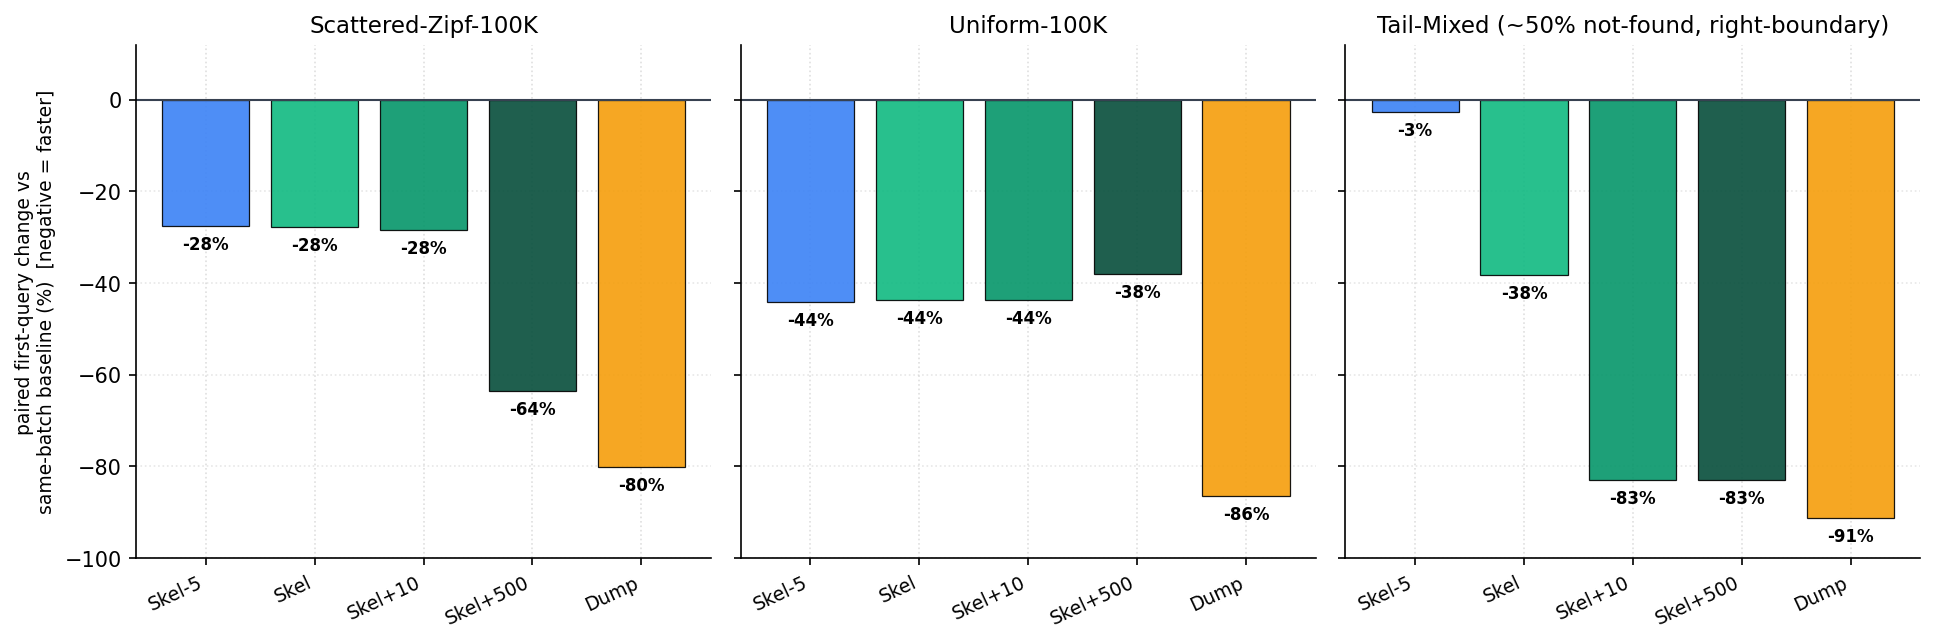
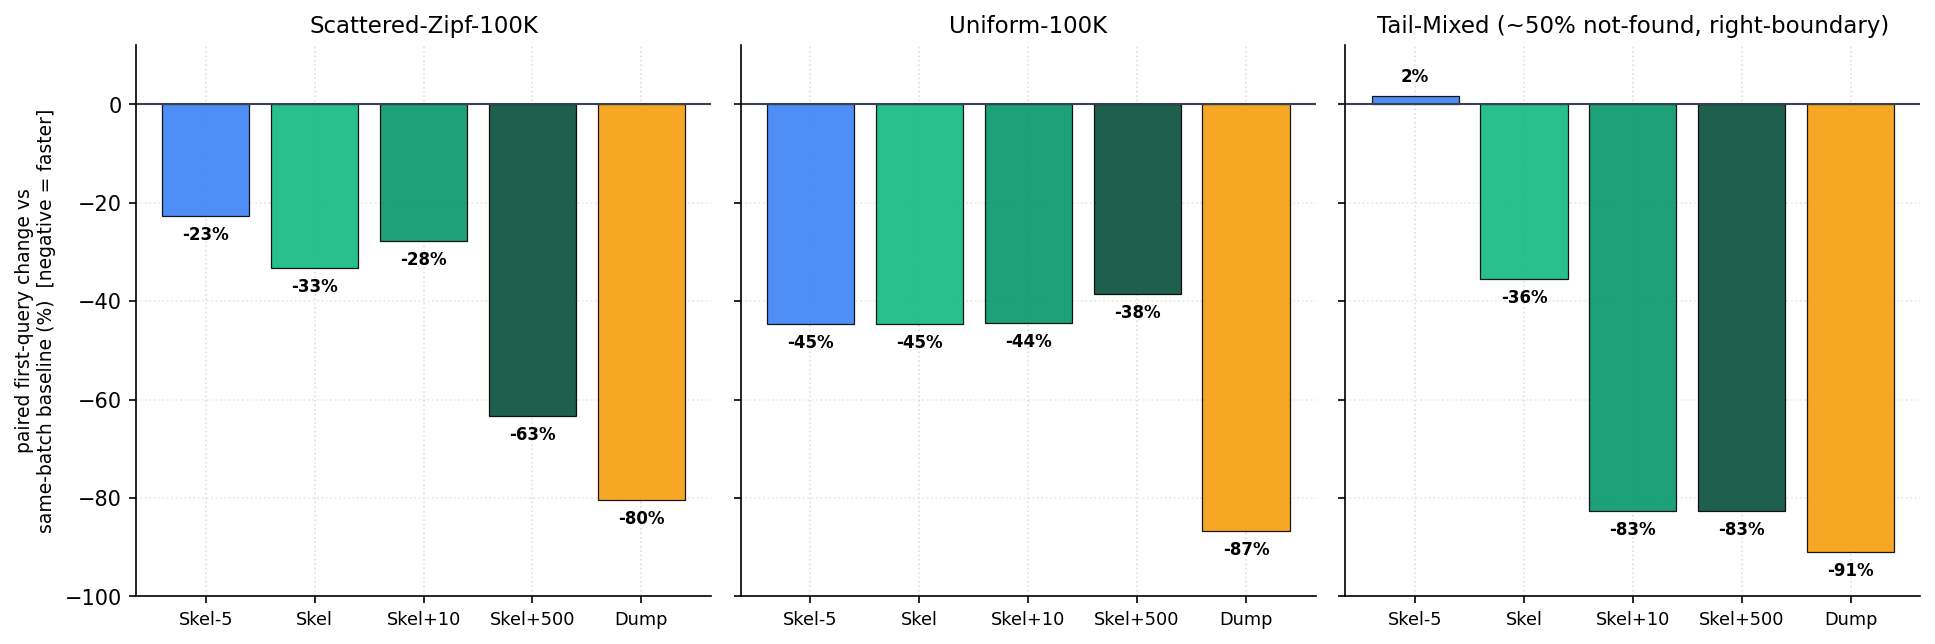
Updated fig 13, 14

diff --git a/figures/14_strategy_endtoend_stacked.py b/figures/14_strategy_endtoend_stacked.py
@@ -1,16 +1,24 @@
 """Figure 14: Warm-process end-to-end cold-start decomposition.
 
-Single canonical batch: results/unified_v4, seed01 (2026-09-17). Stacked
-absolute microseconds require one machine state, which previously forced this
-chart to drop the frequency-ranked 2e_K* arms (their corrected values lived in
-the separate results/tiebreak_fix batch). unified_v4 measured every arm --
-including 2e_K10/2e_K500 under the corrected (-count, pageno) tie-break -- in
-ONE run, and it is the batch the paper's four result tables also report, so the
-absolute stack here matches Table 5's absolute columns.
+Single canonical batch: results/unified_v6, seed01 (2026-09-23). Stacked
+absolute microseconds require one machine state, and unified_v6 measured every
+arm in ONE continuous window, so the absolute stack here matches the paper's
+result tables.
 
-Stack per strategy (layout orig, arm async, medians):
-  first_query (bottom) + deliver (top) = warm-process / integrated e2e.
-Green/red label = warm-process e2e vs the same-batch baseline.
+Each strategy is drawn TWICE, once per delivery mechanism (layout orig, medians):
+  first_query (bottom, grey) + deliver (top, orange) = warm-process e2e.
+  light = async     : one posix_fadvise per page
+  dark  = async_win : one posix_fadvise per 32-page readahead window
+Hue encodes the COMPONENT and lightness encodes the MECHANISM, because the point
+of the pair is that the grey block does not move while the orange block does.
+The saving scales with how much a strategy had to deliver, which is why Dump's
+tower collapses and the targeted arms barely change. Green/red label = e2e_warm
+vs the same-batch baseline, which is the leftmost bar of each panel.
+
+Caveat carried from the batch: seed01's Scattered-Zipf baseline is a genuine
+instantiation outlier (492 us against 828-1024 on the other nine seeds), so the
+Dump percentage here reads worse than the cross-seed figure. The absolute stack
+is unaffected, and the labels match Table 5, which quotes the same seed.
 
 Estimators: the bar HEIGHT is median(first_query) + median(deliver), because the
 bar is a stack of those two plotted medians. The percentage LABEL is computed
@@ -24,7 +32,7 @@ from plot_utils import ROOT, save, workload_panel_title
 import matplotlib.pyplot as plt
 import numpy as np
 
-UNIFIED = ROOT / "results/unified_v4/seed01/summary.csv"
+UNIFIED = ROOT / "results/unified_v6/seed01/summary.csv"
 
 # Aligned with Figure 13's strategy set (plus the baseline reference bar).
 ARMS      = ['baseline', 'layers_5', '2d', '2e_K10', '2e_K500', '2f_slru']
@@ -33,8 +41,17 @@ ARM_LABEL = {'baseline': 'baseline', 'layers_5': 'Skel-5', '2d': 'Skel',
 # CSV keys stay legacy (A/B/C); titles resolve to canonical display names.
 WORKLOADS = ['A', 'B', 'C']
 WL_TITLE  = {w: workload_panel_title(w) for w in ('A', 'B', 'C')}
-FQ_COLOR      = '#d1d5db'   # first query (bottom)
+FQ_COLOR      = '#d1d5db'   # first query (bottom), baseline bar
 DELIVER_COLOR = '#f97316'   # deliver (top)
+# Two delivery mechanisms side by side. Hue encodes the COMPONENT (grey = first
+# query, orange = deliver) and lightness encodes the MECHANISM (light = per-page,
+# dark = window-chunked). No hatching: the point of the pair is that the grey
+# block does not move and the orange block does, and a fill pattern competes with
+# that reading instead of supporting it.
+DELIV_ARMS = ['async', 'async_win']
+ARM_FQ     = {'async': '#d1d5db', 'async_win': '#9ca3af'}
+ARM_DELIV  = {'async': '#fdba74', 'async_win': '#ea580c'}
+ARM_TITLE  = {'async': 'per-page hint', 'async_win': 'window-chunked hint'}
 
 
 def load(path):
@@ -51,8 +68,8 @@ def load(path):
 ROWS = load(UNIFIED)
 
 
-def get(workload, strategy):
-    arm = 'baseline' if strategy == 'baseline' else 'async'
+def get(workload, strategy, arm='async'):
+    arm = 'baseline' if strategy == 'baseline' else arm
     key = (workload, 'orig', strategy, arm)
     if key not in ROWS:
         sys.exit(f"FATAL: missing row {key} in {UNIFIED}")
@@ -62,43 +79,66 @@ def get(workload, strategy):
             float(r.get('e2e_warm_median') or 0))
 
 
-fig, axes = plt.subplots(1, 3, figsize=(12, 5.2), sharey=False)
+fig, axes = plt.subplots(1, 3, figsize=(15.5, 5.2), sharey=False)
 x = np.arange(len(ARMS))
+W = 0.38                      # paired-bar width
 
-print("Figure 14 — plotted cells (unified_v4 absolute stack):")
+print("Figure 14 - plotted cells (unified_v6 seed01, async vs async_win):")
 for ax, wl in zip(axes, WORKLOADS):
-    fqs, dels, canon = [], [], []
+    baseline = get(wl, 'baseline')[0]
+    tops = []
     for s in ARMS:
-        fq, dl, ew = get(wl, s)
-        fqs.append(fq); dels.append(dl); canon.append(ew)
-    warm     = [f + d for f, d in zip(fqs, dels)]   # drawn stack height
-    baseline = fqs[0]
-
-    ax.bar(x, fqs, color=FQ_COLOR, alpha=0.9, edgecolor='black', linewidth=0.5,
-           label='First query')
-    ax.bar(x, dels, bottom=fqs, color=DELIVER_COLOR, alpha=0.95, edgecolor='black',
-           linewidth=0.5, label='Deliver')
-
-    for xi, wv, ew, s in zip(x, warm, canon, ARMS):
         if s == 'baseline':
+            fq, dl, ew = get(wl, s)
+            ax.bar([x[ARMS.index(s)]], [fq], width=W, color=FQ_COLOR, alpha=0.9,
+                   edgecolor='black', linewidth=0.5)
+            tops.append(fq)
             continue
-        wi = (ew - baseline) / baseline * 100.0   # label from the canonical column
-        col = '#15803d' if wi < 0 else '#dc2626'
-        sign = '+' if wi >= 0 else ''
-        print(f"  {wl:1s} {s:9s} fq={fqs[ARMS.index(s)]:7.1f} deliver={dels[ARMS.index(s)]:7.1f}"
-              f" warm={wv:7.1f} ({sign}{wi:.0f}%)")
-        ax.text(xi, wv * 1.07, f'{sign}{wi:.0f}%', ha='center', va='bottom',
-                fontsize=8.5, fontweight='bold', color=col)
+        for j, arm in enumerate(DELIV_ARMS):
+            fq, dl, ew = get(wl, s, arm)
+            xi = x[ARMS.index(s)] + (j - 0.5) * W
+            ax.bar([xi], [fq], width=W, color=ARM_FQ[arm], alpha=0.95,
+                   edgecolor='black', linewidth=0.5)
+            ax.bar([xi], [dl], width=W, bottom=[fq], color=ARM_DELIV[arm], alpha=0.95,
+                   edgecolor='black', linewidth=0.5)
+            warm = fq + dl
+            tops.append(warm)
+            wi = (ew - baseline) / baseline * 100.0
+            col = '#15803d' if wi < 0 else '#dc2626'
+            sign = '+' if wi >= 0 else ''
+            print(f"  {wl:5s} {s:9s} {arm:9s} fq={fq:7.1f} deliver={dl:7.1f}"
+                  f" warm={warm:7.1f} ({sign}{wi:.0f}%)")
+            # Each label sits just above the bar it describes. The pair is only
+            # 0.38 x-units wide, so the panels are given enough width that a
+            # six-character label fits over its own bar instead of spilling onto
+            # its taller neighbour.
+            # The window-chunked label is nudged a hair right, off its taller
+            # per-page neighbour and toward the gap between groups.
+            xlab = xi + (0.04 if arm == 'async_win' else 0.0)
+            ax.text(xlab, warm * 1.07, f'{sign}{wi:.0f}%', ha='center', va='bottom',
+                    fontsize=6.0, fontweight='bold', color=col)
 
     ax.set_xticks(x)
-    ax.set_xticklabels([ARM_LABEL[s] for s in ARMS], fontsize=9, rotation=25, ha='right')
+    ax.set_xticklabels([ARM_LABEL[s] for s in ARMS], fontsize=8.5, rotation=0, ha='center')
     ax.set_title(WL_TITLE[wl], fontsize=10)
     ax.set_yscale('log')
-    ax.set_ylim(80, max(warm) * 3.0)
+    ax.set_ylim(70, max(tops) * 3.2)
     ax.grid(axis='y', alpha=0.25, which='both')
     ax.set_axisbelow(True)
 
+from matplotlib.patches import Patch
+handles = [Patch(facecolor=ARM_FQ['async'], edgecolor='black',
+                 label=f"First query, {ARM_TITLE['async']}"),
+           Patch(facecolor=ARM_DELIV['async'], edgecolor='black',
+                 label=f"Deliver, {ARM_TITLE['async']}"),
+           Patch(facecolor=ARM_FQ['async_win'], edgecolor='black',
+                 label=f"First query, {ARM_TITLE['async_win']}"),
+           Patch(facecolor=ARM_DELIV['async_win'], edgecolor='black',
+                 label=f"Deliver, {ARM_TITLE['async_win']}")]
 axes[0].set_ylabel('Warm-process end-to-end latency (µs, log scale)', fontsize=10)
-axes[0].legend(loc='upper left', fontsize=8)
-fig.tight_layout()
+# The legend gets its own strip above the panels. Inside panel A it would sit in
+# the same headroom the two label rows occupy.
+fig.tight_layout(rect=(0, 0, 1, 0.92))
+fig.legend(handles=handles, loc='upper center', ncol=4, fontsize=8.5,
+           frameon=False, bbox_to_anchor=(0.5, 1.0))
 save(fig, '14_strategy_endtoend_stacked')

diff --git a/figures/13_strategy_firstq_bars.py b/figures/13_strategy_firstq_bars.py
@@ -1,6 +1,6 @@
 """Figure 13: Paired first-query reduction by strategy, per workload.
 
-Single canonical batch: results/unified_v4, seed01 (2026-09-17). Every cell --
+Single canonical batch: results/unified_v6, seed01 (2026-09-23). Every cell --
 including the frequency-ranked 2e_K* arms -- was measured in ONE run with the
 corrected (-count, pageno) tie-break, so no per-cell source selection is needed.
 This is the same batch that backs the paper's four result tables, so the figure
@@ -17,7 +17,7 @@ from plot_utils import ROOT, save, STRATEGY_COLORS, workload_panel_title
 import matplotlib.pyplot as plt
 import numpy as np
 
-UNIFIED   = ROOT / "results/unified_v4/seed01/summary.csv"
+UNIFIED   = ROOT / "results/unified_v6/seed01/summary.csv"
 
 ARMS      = ['layers_5', '2d', '2e_K10', '2e_K500', '2f_slru']
 ARM_LABEL = {'layers_5': 'Skel-5', '2d': 'Skel', '2e_K10': 'Skel+10',
@@ -72,7 +72,7 @@ for ax, wl in zip(axes, WORKLOADS):
                 va='top' if v < 0 else 'bottom', fontsize=8, fontweight='bold')
     ax.axhline(0, color='#374151', lw=1.0)
     ax.set_xticks(x)
-    ax.set_xticklabels([ARM_LABEL[s] for s in ARMS], fontsize=9, rotation=25, ha='right')
+    ax.set_xticklabels([ARM_LABEL[s] for s in ARMS], fontsize=8.5, rotation=0, ha='center')
     ax.set_title(WL_TITLE[wl], fontsize=11)
     ax.set_ylim(-100, 12)
     ax.grid(axis='y', alpha=0.3)
